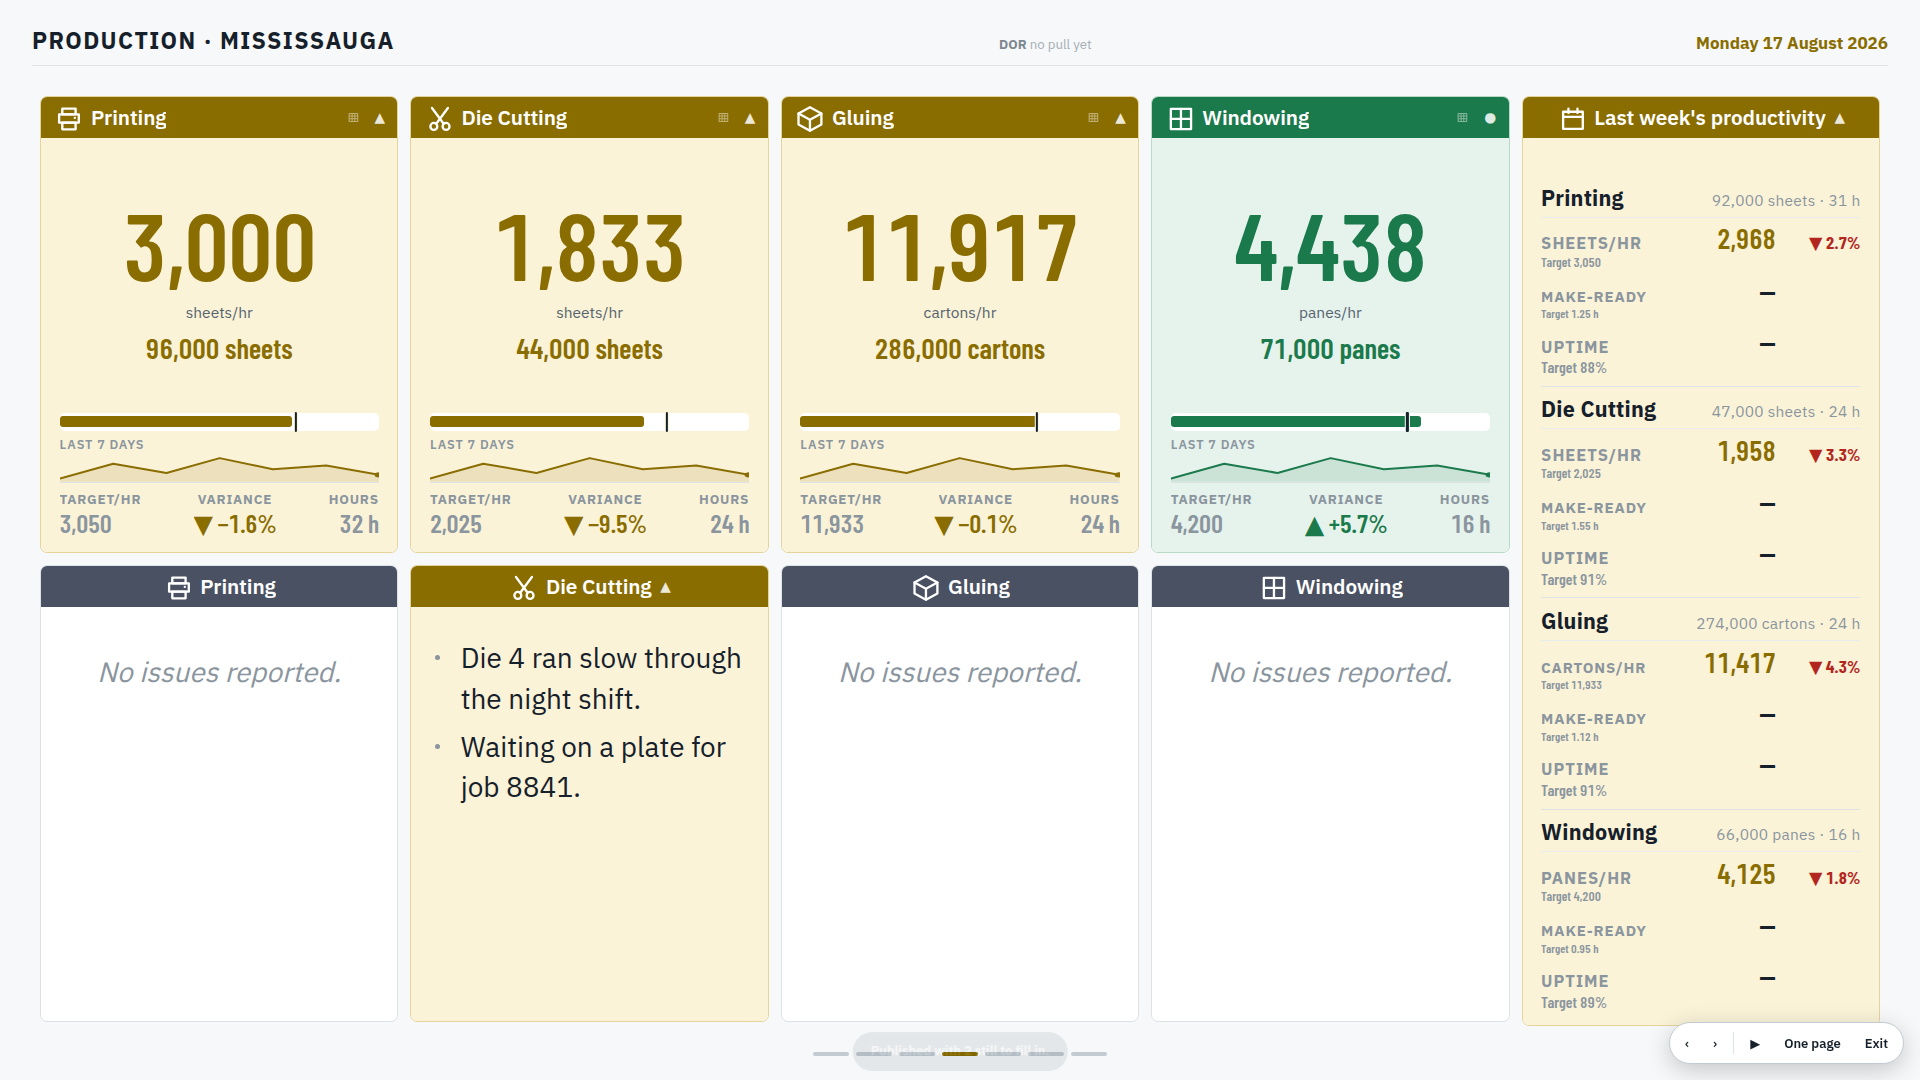
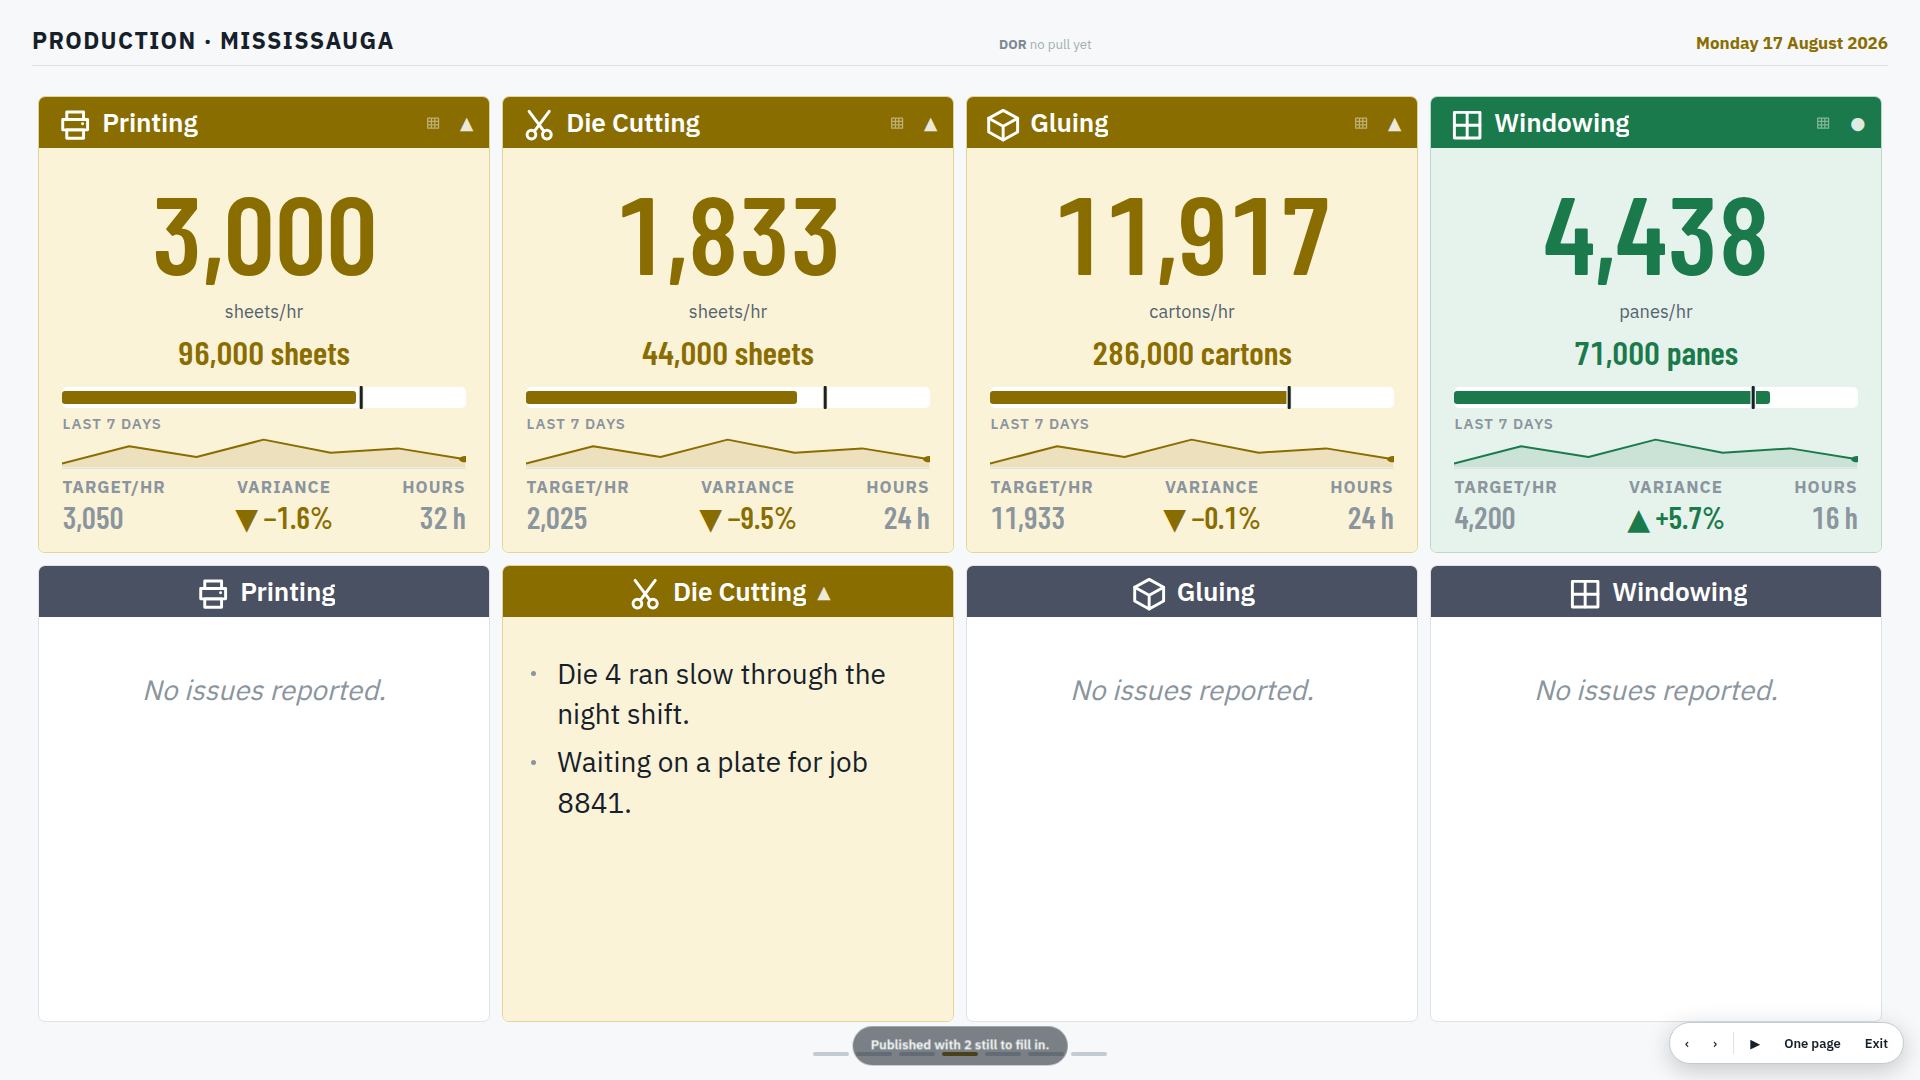
One card about last week, in Production, with the dates on it
There were two, and the plant had both on screen at once. Inside
Production's grid, "Last week's productivity" — the `pw-week` card, reading
the same-weekday-a-week-ago figures, saying "Not logged" against printing,
die cutting and gluing because nobody types those in. Underneath it, under
its own heading, the real one: "Last week · 10–16 August", with volume,
rate, uptime and make-ready straight off the DOR.

One of the two had the answer and the other had the better position. The
one with the answer now has the position, and the heading below it is gone
along with the rail entry that opened it.

An owner account the other administrators cannot take away.

`is_admin` is flat: four people at Mississauga hold it, and any of them
could delete, rename, demote or — the one that matters — reset the password
of the person who built this. Reset is the quiet attack: one click, the
password prints on the administrator's own screen, and they have the
account.

One account is now above the flat list. It cannot be deleted, demoted,
stripped of its plants or capabilities, or given a new password by anybody
else. It can still do all of those to itself.

Enforced twice, because once is not enough. A trigger on `profiles` and on
the two grant tables catches anything arriving with a session attached,
whether from this product's People screen or from curl with a valid token.
The `people` function repeats all three refusals against the caller's token,
[…]

diff --git a/supabase/functions/people/index.ts b/supabase/functions/people/index.ts
@@ -95,9 +95,37 @@ Deno.serve(async request => {
   const action = String(body.action ?? 'create');
   const admin = createClient(URL_, SERVICE, { auth: { persistSession: false } });
 
+  // The owner account, and why the check has to live here as well as in the database.
+  //
+  // `profiles` carries a trigger that refuses to let one administrator delete, demote or
+  // strip another when that other is the owner. It cannot help here. Everything below this
+  // line runs on the service-role key, which is the key the database trusts absolutely —
+  // triggers keyed on `auth.uid()` see nobody at all, and let it through by design, because
+  // that is how the flag got set in the first place.
+  //
+  // So the same three refusals are made again, against the *caller's* token rather than
+  // against the connection. `reset` is the one that matters most and the one that was
+  // easiest to miss: deleting an account is loud and somebody notices, but issuing it a new
+  // password is quiet, takes one click, prints the password on the administrator's own
+  // screen, and hands them the account. An owner who cannot be deleted but can be reset is
+  // not protected; they are protected from the noisy attack only.
+  //
+  // Self is always allowed. The owner resetting their own password, or changing their own
+  // username, is the ordinary thing this screen is for.
+  const ownerGuard = async (targetId: string, what: string) => {
+    if (!targetId || targetId === who.user.id) return null;
+    const { data: target } = await admin
+      .from('profiles').select('is_owner').eq('id', targetId).maybeSingle();
+    if (!target?.is_owner) return null;
+    return reply({ error: `That account belongs to the owner of MaxMetrics. `
+      + `It cannot be ${what} by another administrator.` }, 403);
+  };
+
   // ── Change a name or an email ──
   if (action === 'update') {
     if (!body.id) return reply({ error: 'Which account?' }, 400);
+    const refused = await ownerGuard(body.id, 'renamed');
+    if (refused) return refused;
     const email = asLogin(body.email);
     const name = String(body.name ?? '').trim();
     if (body.email && !email) {
@@ -123,6 +151,8 @@ Deno.serve(async request => {
   // ── A new temporary password for somebody who has lost theirs ──
   if (action === 'reset') {
     if (!body.id) return reply({ error: 'Which account?' }, 400);
+    const refused = await ownerGuard(body.id, 'given a new password');
+    if (refused) return refused;
     const { data: found } = await admin.auth.admin.getUserById(body.id);
     const password = temporaryPassword();
     const { error } = await admin.auth.admin.updateUserById(body.id, {
@@ -144,6 +174,8 @@ Deno.serve(async request => {
     if (body.id === who.user.id) {
       return reply({ error: 'You cannot remove your own account.' }, 400);
     }
+    const refused = await ownerGuard(body.id, 'removed');
+    if (refused) return refused;
     const { error } = await admin.auth.admin.deleteUser(body.id);
     if (error) return reply({ error: error.message }, 400);
     return reply({ ok: true });
@@ -190,6 +222,12 @@ Deno.serve(async request => {
           + 'usernames are stored under needs changing.'
         : error.message }, 400);
     }
+    // Add, for somebody who already exists, is Reset wearing a different hat — so the owner
+    // has to be refused here as well. Without this the whole guard is a formality: an
+    // administrator types the owner's username into "Add new user", the account is found to
+    // exist, and a fresh password is printed on their screen.
+    const alreadyRefused = await ownerGuard(found.id, 'given a new password');
+    if (alreadyRefused) return alreadyRefused;
     id = found.id;
     reused = true;
     const { error: reset } = await admin.auth.admin.updateUserById(found.id, {

diff --git a/js/pages/dashboard.js b/js/pages/dashboard.js
@@ -2173,8 +2173,17 @@ const SECTIONS = {
     //
     // The week card is written last and placed first by the grid, so the departments fill
     // the row from the left and it takes the column at the end.
+    //
+    // `lastWeekCard()` rather than the `pw-week` card that used to stand here. There were
+    // two cards about last week and the plant had both on screen at once: this one, headed
+    // "Last week's productivity", reading the same-weekday-a-week-ago figures and saying
+    // "Not logged" against all three departments because nobody types those in; and the real
+    // one underneath its own heading, headed with the dates and carrying volume, rate,
+    // uptime and make-ready off the DOR. One of the two had the answer and the other had the
+    // better position. Now the one with the answer has the position, and the heading below
+    // it is gone.
     return `<div class="grid grid--cards grid--prod" data-grid="production"
-      style="--prod-cols:${list.length}">${cards}${review}${weekCard()}</div>`;
+      style="--prod-cols:${list.length}">${cards}${review}${lastWeekCard()}</div>`;
   },
 
   shipping: () => {
